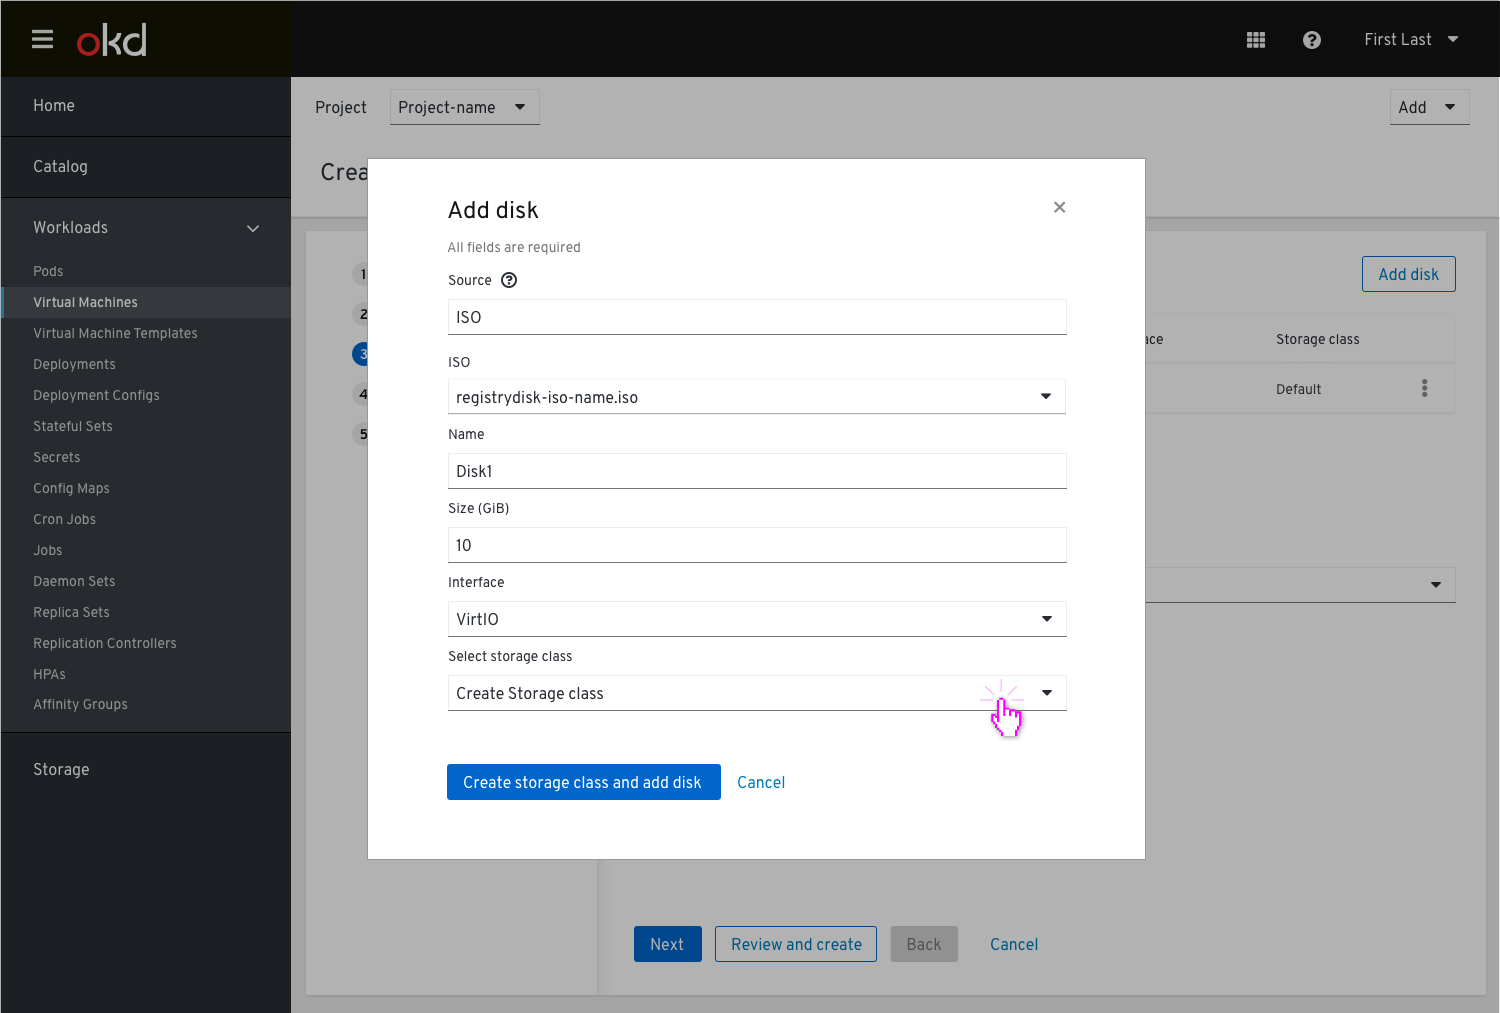
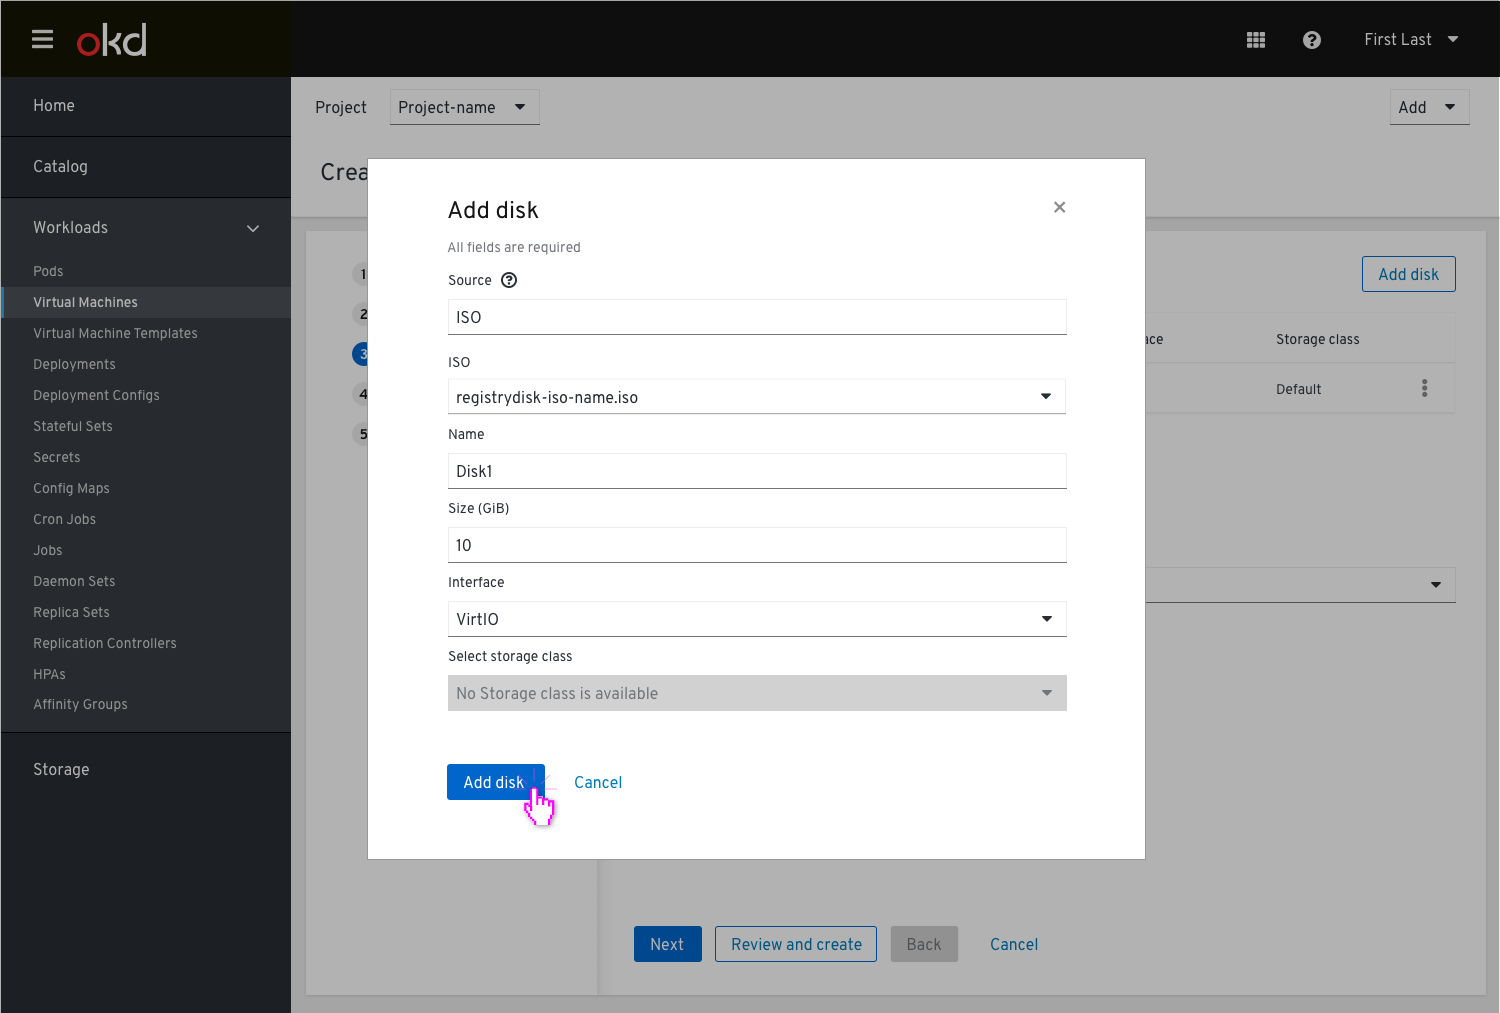
changes due to disability to create a storage class in this flow

Changed region(s): [[0.276, 0.6426, 0.736, 0.7345], [0.3067, 0.7345, 0.5213, 0.8263]]

diff --git a/web-console/knikubevirt/NoStorageClassAvailable/NoStorageClassAvailable.md b/web-console/knikubevirt/NoStorageClassAvailable/NoStorageClassAvailable.md
@@ -13,24 +13,20 @@ We want to allow the user to set the Storage class within the wizard, with no ne
 
 ![Fill in disk details](img/Add-disk-modal-details-required.png)
 
-The "Create storage class and add disk" action wouldn't appear until the user decided they need to create a storage class.  That's why this is the only option in the dropdown and then the additional fields show up. Once the user filled them all out, they would click the primary create button.
+Clicking the ‘Add disk’ button at the bottom will add the disk to the list view, but the Storage class will be shown in the disks table as ‘Non available’.
 
-![Add disk modal with create storage class](img/Add-disk-modal-with-create-sc.png)
+![Empty Storage class popover](img/Disks-list.png)
 
-Clicking the ‘Create Storage class and add disk’ button at the bottom will add the disk to the list view.
+Clicking on the ‘non available’ Storage class will show a popover with more info and an action link which will take the user to the ‘Create Storage class’ modal.
 
-Even when a user didn’t define a storage class, or doesn't have one available, they can still create a VM.
-In cases when the user didn’t define any Storage class, the Storage class will be shown in the table view as ‘Empty’ with a warning icon.
-Clicking on the ‘Empty’ Storage class will show a popover with more info and an action link which will take the user to the ‘Create Storage class’ modal.
+In the VM list view, the status of the VM would still be pending untill the user would create a storage class and mark it as default.
 
-![Empty Storage class popover](img/Popover.png)
+Clicking on the ‘pending’ status of the VM will show a popover with more info and an action link which will take the user to the ‘Create Storage class’ modal.
+
+![vmlist with popover](img/vmlist.png)
 
 'Create Storage class’ modal
 
 ![Create storage class modal](img/Create-storage-class-modal.png)
 
-Once the user creates the Storage class, it will be reflected in the VM list view (after the VM has been created), and show the VM in a pending status with warning icon and a pop over explanation saying the VM has been scheduled and waiting for the requirements to be assigned.
-
-![vmlist with popover](img/vmlist.png)
-
-After that, the storage class will be created successfully and the VM will spin up.
+After the storage class is created successfully, the VM will spin up.
